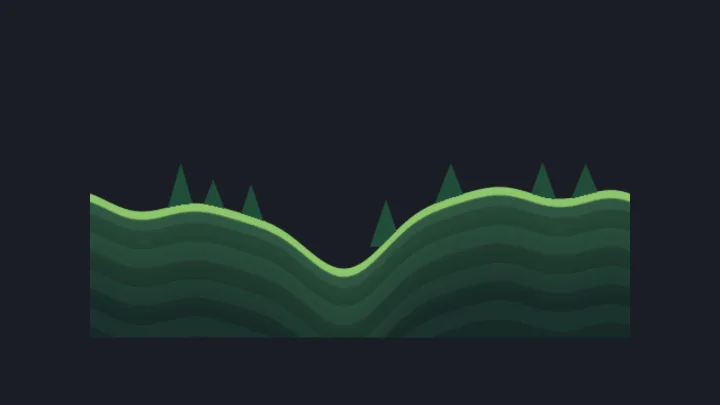
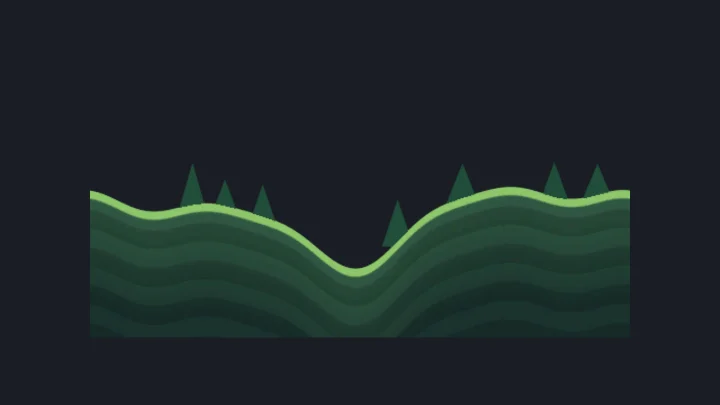
dispatch(tiling-scroll-parallax-fix): 표본 수정: tiling-scroll-parallax 리뷰 반영
Dispatch-Job: tiling-scroll-parallax-fix
Dispatch-Profile: org
Dispatch-Model: claude-opus-5-5

Changed region(s): [[0.1222, 0.4148, 0.8861, 0.6815]]

diff --git a/web/src/specimens/tiling-scroll-parallax/meta.ts b/web/src/specimens/tiling-scroll-parallax/meta.ts
@@ -25,7 +25,7 @@ export const meta: SpecimenMeta = {
     { key: '_ScrollSpeed', label: '자동 흐름 속도', type: 'range', min: -1, max: 1, step: 0.01, default: 0.15, unit: ' 장/초', hint: '카메라가 가만히 있어도 흐르는 속도. 1 이면 1초에 텍스처 한 장 폭만큼 간다. 음수면 반대로 흐른다. 층 계수가 함께 곱해진다' },
     { key: '_LayerFactor', label: '층 계수', type: 'range', min: 0, max: 2, step: 0.01, default: 1, hint: '움직임에 곱하는 값. 0 이면 멈춰 하늘처럼 멀어 보이고 1 이면 땅처럼 카메라와 같이 지나간다. 먼 층일수록 작게 준다' },
     { key: '_ScrollOffset', label: '카메라 오프셋', type: 'range', min: -4, max: 4, step: 0.01, default: 0, unit: ' 장', hint: 'C# 이 카메라가 간 거리를 텍스처 폭 단위로 바꿔 넣는 값. 끌어 보면 그림이 옆으로 밀리며 끝없이 이어진다' },
-    { key: '_Tiling', label: '가로 반복 횟수', type: 'range', min: 1, max: 4, step: 0.05, default: 1, hint: '스프라이트 한 장에 텍스처가 몇 번 들어가는지. 스프라이트를 가로로 늘린 배율만큼 올리면 그림이 늘어나 보이지 않는다' },
+    { key: '_Tiling', label: '가로 반복 횟수', type: 'range', min: 1, max: 4, step: 0.05, default: 1, hint: '스프라이트 한 장에 텍스처가 몇 번 들어가는지. Unity 에서 스프라이트를 가로로 늘린 배율만큼 올리면 그림이 늘어나 보이지 않는다. 미리보기는 스프라이트를 늘리지 않아 올릴수록 언덕이 가로로 눌려 보인다' },
     { key: '_HazeColor', label: '공기 색', type: 'color', default: '#9eb8d6', hint: '먼 층을 덮는 하늘빛' },
     { key: '_Haze', label: '공기 섞기', type: 'range', min: 0, max: 1, step: 0.01, default: 0, hint: '공기 색을 섞는 양. 먼 층일수록 올리면 흐려져 거리감이 커진다' },
   ],
@@ -33,7 +33,7 @@ export const meta: SpecimenMeta = {
     { id: 'near', name: '가까운 층', look: '계수 1. 카메라와 같은 속도로 지나가는 땅', values: {} },
     { id: 'far', name: '먼 층', look: '계수 0.25 에 공기 색을 섞어 느리고 흐린 산', values: { _LayerFactor: 0.25, _Haze: 0.55 } },
     { id: 'camera-only', name: '카메라만 따라감', look: '자동 흐름 없이 카메라 이동 버튼으로만 움직인다', values: { _ScrollSpeed: 0 } },
-    { id: 'wide', name: '가로로 늘린 층', look: '스프라이트를 두 배로 늘렸을 때처럼 한 장에 두 번 반복한다', values: { _Tiling: 2 } },
+    { id: 'wide', name: '가로로 늘린 층', look: '한 장에 텍스처를 두 번 반복한다. 미리보기는 스프라이트를 늘리지 않아 언덕이 가로로 눌려 보이고, Unity 에서 Scale X 를 두 배로 늘린 층에 주면 원래 비율로 돌아온다', values: { _Tiling: 2 } },
   ],
   events: [
     {
@@ -45,14 +45,14 @@ export const meta: SpecimenMeta = {
   demo: { fire: [{ event: 'pan', every: 5 }] },
   steps: [
     { n: 1, label: '원래 UV', body: '스프라이트의 UV 를 색으로 본다. 가로(`u`)는 빨강, 세로(`v`)는 초록이라 왼쪽 아래가 검고 오른쪽 아래가 빨강, 왼쪽 위가 초록, 오른쪽 위가 노랑이다. 이 범위 0~1 이 텍스처 한 장이다.' },
-    { n: 2, label: '오프셋을 더한 UV', body: '가로 UV 에 오프셋을 더하고 1 을 넘는 부분을 다시 0 부터 세어(`frac`) 보았다. 오른쪽으로 갈수록 빨강이 짙어지다가 한 줄에서 빨강이 갑자기 빠져 초록과 검정으로 돌아간다. 이 세로 경계가 텍스처가 처음부터 다시 시작하는 곳이다. 시간이 가면 이 경계가 왼쪽으로 흐른다. 층 계수를 0 으로 내리면 멈추고, 반복 횟수를 올리면 경계가 늘어난다. 실제 셰이더는 `frac` 을 하지 않고 Wrap Mode Repeat 에 맡긴다.' },
+    { n: 2, label: '오프셋을 더한 UV', body: '가로 UV 에 오프셋을 더하고 1 을 넘는 부분을 다시 0 부터 세어(`frac`) 보았다. 오른쪽으로 갈수록 빨강이 짙어지다가 한 줄에서 빨강이 갑자기 빠져 초록과 검정으로 돌아간다. 이 세로 경계가 텍스처가 처음부터 다시 시작하는 곳이다. 시간이 가면 이 경계가 왼쪽으로 흐른다. 층 계수를 0 으로 내리면 멈추고, 반복 횟수를 올리면 경계가 늘어난다. 실제 셰이더는 UV 에 `frac` 을 하지 않고 Wrap Mode Repeat 에 맡긴다. 끝없이 커지는 오프셋 값 하나만 `frac` 으로 감싸는데, 화면 전체에 같은 값이라 이음매가 생기지 않는다.' },
     { n: 3, label: '최종', body: '오프셋을 더한 UV 로 텍스처를 읽었다. 2단계의 경계 자리에서도 언덕이 끊기지 않는다. 텍스처의 왼쪽 끝과 오른쪽 끝이 이어지게 그렸기 때문이다. 단계 보기에서는 투명한 하늘이 검게 보인다. 공기 섞기를 올리면 먼 층처럼 흐려진다.' },
   ],
-  offNote: 'Wrap Mode 가 Clamp 인 텍스처처럼 0~1 밖에서 끝 열만 계속 읽는다. 처음에는 멀쩡하지만 그림이 흐르면서 오른쪽부터 땅의 띠가 가로 줄무늬로 길게 늘어나고, 한 바퀴가 지나면 스프라이트 전체가 줄무늬가 된다. 카메라 오프셋을 끌어도 같다.',
+  offNote: 'Wrap Mode 가 Clamp 인 텍스처처럼 0~1 밖에서 끝 열만 계속 읽는다. 처음에는 멀쩡하지만 그림이 흐르면서 오른쪽부터 땅의 띠가 가로 줄무늬로 길게 늘어나고, 한 장을 거의 다 지날 무렵에는 스프라이트 전체가 줄무늬가 되었다가 처음 그림으로 튀어 돌아온다. 카메라 오프셋을 끌어도 같다.',
   mistakes: [
     { title: '스크롤하면 끝 픽셀이 가로 줄무늬로 늘어난다', body: '텍스처의 Wrap Mode 가 Clamp 라서 0~1 밖에서 끝 열만 읽는다. 텍스처 임포트 설정에서 Wrap Mode 를 Repeat 로 바꾸고 Apply 한다. 위아래까지 반복되어 아래 가장자리에 위쪽 픽셀이 비치면 Per-axis 로 U 만 Repeat, V 는 Clamp 로 둔다.' },
     { title: 'Repeat 로 했는데도 옆 스프라이트가 끌려오거나 늘어난다', body: '스프라이트가 Sprite Atlas 에 들어가 있으면 UV 가 아틀라스 안의 작은 사각형이라 반복이 아틀라스 전체에 걸리고, 아틀라스 텍스처의 Wrap Mode 가 쓰인다. 배경 층 텍스처는 아틀라스에 넣지 않은 단독 텍스처로 두고 Sprite Mode 는 Single 로 한다.' },
-    { title: '그림이 찌그러지거나 투명한 위쪽이 잘린다', body: 'Mesh Type 이 Tight 이면 투명한 하늘 부분이 메시에서 빠지고 UV 가 사각형이 아니게 된다. 스프라이트 임포트 설정의 Mesh Type 을 Full Rect 로 바꾼다.' },
+    { title: '흐르던 언덕과 나무가 하늘 자리에서 다각형 모양으로 잘려 사라진다', body: 'Mesh Type 이 Tight 이면 Unity 가 투명한 하늘을 빼고 원래 그림의 언덕 실루엣을 따라 메시를 만든다. UV 는 그대로라 그림은 흐르지만 메시는 원래 모양에 고정되어, 높은 언덕이나 나무가 원래 하늘이던 자리로 흘러가면 메시 밖이라 다각형 모양으로 잘려 보이지 않는다. 스프라이트 임포트 설정의 Mesh Type 을 Full Rect 로 바꾸고 Apply 한다.' },
     { title: '머티리얼 오프셋을 바꿔도 움직이지 않는다', body: '기본 Sprite 셰이더는 머티리얼의 Tiling/Offset 을 쓰지 않는다. `material.mainTextureOffset` 대신 이 셰이더의 `_ScrollOffset` 을 넣는다. `sharedMaterial` 에 넣으면 모든 층이 같이 움직이므로 층마다 `SpriteRenderer.material` 복사본을 쓴다.' },
     { title: '픽셀 아트 배경이 흐리게 떨린다', body: '오프셋이 텍셀 사이에 걸리면 픽셀이 반쯤 섞여 번지고, 층마다 다르게 걸려 떨려 보인다. Filter Mode 를 Point 로 하고 Pixel Perfect Camera 로 카메라를 정수 PPU 격자에 맞춘 뒤 `TextureParallaxScroller` 의 Snap To Texel 을 켜 최종 오프셋을 1/텍스처 폭 단위로 끊는다.' },
   ],
@@ -62,18 +62,18 @@ export const meta: SpecimenMeta = {
       '배경 층 PNG(예: `TilingScrollParallaxLayer.png`)의 임포트 설정을 Texture Type Sprite (2D and UI), Sprite Mode Single, Mesh Type Full Rect, sRGB 켬, Wrap Mode Repeat, Filter Mode Bilinear(픽셀 아트는 Point)로 하고 Apply 한다. Sprite Atlas 에는 넣지 않는다.',
       '셰이더를 우클릭해 Create > Material 로 머티리얼을 만든다. 층이 여러 개여도 머티리얼 하나면 된다.',
       '층마다 SpriteRenderer 오브젝트를 하나씩 만들어 스프라이트와 머티리얼을 넣고, 화면 폭보다 넓게 Scale X 를 키운 뒤 머티리얼의 가로 반복 횟수를 같은 배율로 맞춘다. 먼 층일수록 Order in Layer 를 작게 둔다.',
-      '각 층에 `TextureParallaxScroller` 를 붙이고 Layer Factor 를 먼 층 0.1~0.3, 가까운 층 0.6~1 로 준다. 카메라로 스크롤하는 게임이면 머티리얼의 자동 흐름 속도는 0 으로 둔다.',
+      '각 층에 `TextureParallaxScroller` 를 붙이고 Layer Factor 를 먼 층 0.1~0.3, 가까운 층 0.6~1 로 준다. 스크립트가 Awake 에서 머티리얼의 자동 흐름 속도를 Auto Scroll Speed(기본 0)로 덮어쓰므로 카메라가 서 있으면 층도 멈춘다. 구름처럼 혼자 흘러야 하는 층만 Auto Scroll Speed 를 준다. 카메라에 MainCamera 태그가 없으면 Camera Transform 칸에 카메라를 넣는다.',
     ],
     verify: 'Play 중 카메라를 옆으로 옮기면 층이 화면을 계속 덮은 채 그림만 흐르고, Layer Factor 가 작은 층일수록 느리게 지나가며 끝없이 이어져 끊기거나 줄무늬가 생기지 않는다.',
     pitfalls: [
       '2D Renderer 에서는 `Universal2D` 패스가, Universal Renderer 에서는 `UniversalForward` 패스가 그려진다. 하나를 지우면 다른 쪽에서 배경이 사라진다.',
-      '반복은 텍스처의 Wrap Mode 가 한다. 아틀라스에 들어간 스프라이트, Tight 메시, Sprite Mode Multiple 로 자른 한 칸에서는 UV 가 0~1 이 아니라서 반복이 깨진다.',
-      '수업의 2D 05 Layer And Scroll `ScrollController` 는 오브젝트를 옮기고 화면 밖으로 나간 판을 반대편으로 되돌린다. 이 방식은 오브젝트가 카메라를 따라가고 텍스처 오프셋만 바뀌어 판을 이어 붙이거나 되돌릴 필요가 없다. 대신 층마다 머티리얼 복사본이 하나씩 생기고, 층 위에 놓인 콜라이더나 오브젝트는 함께 움직이지 않는다. 밟는 땅이나 장애물은 오브젝트 방식이 맞다.',
-      '카메라를 LateUpdate 에서 옮기는 스크립트보다 먼저 돌면 한 프레임 늦어 떨린다. `TextureParallaxScroller` 는 `DefaultExecutionOrder(100)` 으로 뒤에 돈다. Cinemachine 처럼 더 늦게 도는 카메라면 순서를 더 뒤로 한다.',
-      '`_Time` 으로 흐르는 자동 흐름은 편집 모드에서도 돌고 `Time.timeScale` 을 0 으로 해도 멈추지 않는다. 일시정지에 멈춰야 하면 속도를 0 으로 두고 C# 에서 `Time.deltaTime` 으로 쌓은 값을 `_ScrollOffset` 에 더해 넣는다.',
-      'MaterialPropertyBlock 은 쓰지 않는다. SRP Batcher 에서 빠지고, 머티리얼 복사본 방식이 수업 프로젝트와도 같다.',
+      '반복은 텍스처의 Wrap Mode 가 한다. 아틀라스에 들어간 스프라이트나 Sprite Mode Multiple 로 자른 한 칸은 UV 가 0~1 이 아니라서 반복이 깨진다. Tight 메시는 메시가 원래 언덕 실루엣 모양에 고정되어 흐르는 그림이 잘린다.',
+      '이 셰이더는 2D 조명을 받지 않는다. 2D Renderer 의 Light 2D 를 놓아도 배경 층은 밝기가 그대로다. 밤 장면처럼 어둡게 하려면 SpriteRenderer 의 Color 나 공기 색으로 맞추고, 2D 라이트가 필요하면 `Universal2D` 패스에 라이팅 코드를 넣어야 한다.',
+      '수업의 2D 05 Layer And Scroll `ScrollController` 는 오브젝트를 옮기고 화면 밖으로 나간 판을 반대편으로 되돌린다. 이 방식은 오브젝트가 카메라를 따라가고 텍스처 오프셋만 바뀌어 판을 이어 붙이거나 되돌릴 필요가 없다. 대신 층마다 머티리얼 복사본이 하나씩 생기고(MaterialPropertyBlock 은 SRP Batcher 에서 빠져 쓰지 않는다), 층 위에 놓인 콜라이더나 오브젝트는 함께 움직이지 않는다. 밟는 땅이나 장애물은 오브젝트 방식이 맞다.',
+      '카메라를 옮기는 스크립트보다 먼저 돌면 한 프레임 늦은 위치를 읽어 떨린다. `TextureParallaxScroller` 는 `DefaultExecutionOrder(100)` 으로 기본 순서(0)의 LateUpdate 보다 뒤에 돈다. 카메라를 패키지(Cinemachine 등)나 다른 스크립트가 옮기면 그쪽이 어느 업데이트에서 어떤 순서로 도는지 Edit > Project Settings > Script Execution Order 와 그 패키지 문서에서 확인하고, 이 스크립트가 그 뒤에 돌게 순서를 맞춘다.',
+      'URP 의 `_Time` 은 Play 중 `Time.time` 이라 자동 흐름은 `Time.timeScale` 을 따른다. 0 이면 멈추고 2 면 두 배로 흐른다. 그래서 일시정지 메뉴 뒤 배경까지 멈추는 일이 흔하다. 멈추면 안 되는 층은 Auto Scroll Speed 를 0 으로 두고 C# 에서 `Time.unscaledDeltaTime` 을 쌓아 `_ScrollOffset` 에 넣는다. `TextureParallaxScroller` 가 매 프레임 `_ScrollOffset` 을 쓰므로 쌓은 값은 이 스크립트에서 카메라 오프셋에 더해 넘긴다. 쌓는 값은 `Mathf.Repeat(offset, 1f / layerFactor)` 로 감싸야 오래 켜 두어도 float 정밀도로 떨리지 않는다.',
     ],
-    graph: 'Shader Graph 의 Sprite Unlit 타깃에서는 Custom Function 없이 Tiling And Offset 노드로 같은 일을 한다. UV 에 Tiling (`_Tiling`, 1), Offset 에 (`_ScrollOffset` + Time × `_ScrollSpeed`) × `_LayerFactor` 를 넣고 Sample Texture 2D 로 `_MainTex` 를 읽는다.',
+    graph: 'Shader Graph 의 Sprite Unlit 타깃에서는 Custom Function 없이 Tiling And Offset 노드로 같은 일을 한다. UV 에 Tiling (`_Tiling`, 1), Offset 에 (`_ScrollOffset` + Time × `_ScrollSpeed`) × `_LayerFactor` 를 Fraction 노드로 감싼 값을 넣고 Sample Texture 2D 로 `_MainTex` 를 읽는다.',
   },
   prompt: {
     goal: '2D 배경 층을 SpriteRenderer 의 UV 오프셋으로 끝없이 스크롤하고 층마다 카메라를 따라가는 속도를 달리해 시차를 만든다.',

diff --git a/Assets/Shaders/tiling-scroll-parallax/TextureParallaxScroller.cs b/Assets/Shaders/tiling-scroll-parallax/TextureParallaxScroller.cs
@@ -9,6 +9,7 @@ namespace ShaderGallery.Samples
     public class TextureParallaxScroller : MonoBehaviour
     {
         static readonly int ScrollOffset = Shader.PropertyToID("_ScrollOffset");
+        static readonly int ScrollSpeed = Shader.PropertyToID("_ScrollSpeed");
         static readonly int LayerFactor = Shader.PropertyToID("_LayerFactor");
         static readonly int Tiling = Shader.PropertyToID("_Tiling");
 
@@ -18,16 +19,21 @@ namespace ShaderGallery.Samples
         [Tooltip("0 이면 하늘처럼 멈춰 있고 1 이면 땅처럼 카메라와 같이 지나간다. 먼 층일수록 작게.")]
         [SerializeField, Range(0f, 2f)] float layerFactor = 0.5f;
 
+        [Tooltip("카메라가 서 있어도 흐르는 속도(장/초). 머티리얼 기본값(0.15)은 썸네일용이라 Awake 에서 이 값으로 덮어쓴다. 0 이면 카메라가 움직일 때만 흐른다. 셰이더의 _Time 을 쓰므로 Time.timeScale 이 0 이면 멈춘다.")]
+        [SerializeField, Range(-1f, 1f)] float autoScrollSpeed = 0f;
+
         [Tooltip("켜면 스프라이트가 카메라를 가로로 따라가 화면을 계속 덮는다. 움직임은 텍스처 오프셋이 만든다. 끄려면 스프라이트를 카메라의 자식으로 둔다. 월드에 서 있는 스프라이트에 오프셋까지 주면 두 배로 움직인다.")]
         [SerializeField] bool followCameraX = true;
 
-        [Tooltip("픽셀 아트용. 최종 오프셋을 텍셀 단위로 끊어 반 픽셀 번짐과 떨림을 막는다. 자동 흐름 속도가 0 일 때만 정확하다.")]
+        [Tooltip("픽셀 아트용. 최종 오프셋을 텍셀 단위로 끊어 반 픽셀 번짐과 떨림을 막는다. Auto Scroll Speed 가 0 일 때만 정확하다.")]
         [SerializeField] bool snapToTexel;
 
         SpriteRenderer spriteRenderer;
         Material material;
         float startCameraX;
         float startSelfX;
+        bool hasStartCamera;
+        bool warnedNoCamera;
 
         void Awake()
         {
@@ -35,25 +41,50 @@ namespace ShaderGallery.Samples
             // 층마다 계수가 다르므로 이 스프라이트 전용 복사본을 쓴다. SRP Batcher 도 유지된다.
             material = spriteRenderer.material;
             material.SetFloat(LayerFactor, layerFactor);
-            if (cameraTransform == null && Camera.main != null)
-            {
-                cameraTransform = Camera.main.transform;
-            }
+            // 머티리얼 기본 흐름 속도는 썸네일용이다. 넣지 않으면 카메라가 서 있어도 층마다 계속 흐른다.
+            material.SetFloat(ScrollSpeed, autoScrollSpeed);
         }
 
         void Start()
         {
             // 시작 위치를 기준으로 잡아 처음 화면은 머티리얼에 넣은 그림 그대로 보인다.
-            if (cameraTransform != null)
+            startSelfX = transform.position.x;
+            TryBindCamera();
+        }
+
+        // 카메라를 찾고 처음 찾은 순간의 위치를 기준으로 잡는다. 없으면 한 번만 경고한다.
+        bool TryBindCamera()
+        {
+            if (cameraTransform == null)
             {
+                Camera mainCamera = Camera.main;
+                if (mainCamera != null)
+                {
+                    cameraTransform = mainCamera.transform;
+                }
+            }
+
+            if (cameraTransform == null)
+            {
+                if (!warnedNoCamera)
+                {
+                    warnedNoCamera = true;
+                    Debug.LogWarning($"{name}: 따라갈 카메라가 없어 배경을 스크롤하지 않는다. 카메라에 MainCamera 태그를 달거나 Camera Transform 칸에 넣는다.", this);
+                }
+                return false;
+            }
+
+            if (!hasStartCamera)
+            {
+                hasStartCamera = true;
                 startCameraX = cameraTransform.position.x;
             }
-            startSelfX = transform.position.x;
+            return true;
         }
 
         void LateUpdate()
         {
-            if (cameraTransform == null)
+            if (!TryBindCamera())
             {
                 return;
             }
@@ -76,6 +107,12 @@ namespace ShaderGallery.Samples
 
             // 카메라가 간 거리(장). 셰이더가 층 계수를 곱한다.
             float offset = (cameraX - startCameraX) / tileWidth;
+            if (layerFactor > 0f)
+            {
+                // 셰이더가 계수를 곱한 뒤 한 장(1) 주기라서 여기서는 1 / 계수 주기로 감싼다.
+                // 카메라가 멀리 가도 넘기는 값이 작게 유지되어 float 정밀도로 떨리지 않는다.
+                offset = Mathf.Repeat(offset, 1f / layerFactor);
+            }
             if (snapToTexel && layerFactor > 0f && spriteRenderer.sprite != null)
             {
                 float texels = spriteRenderer.sprite.texture.width;
